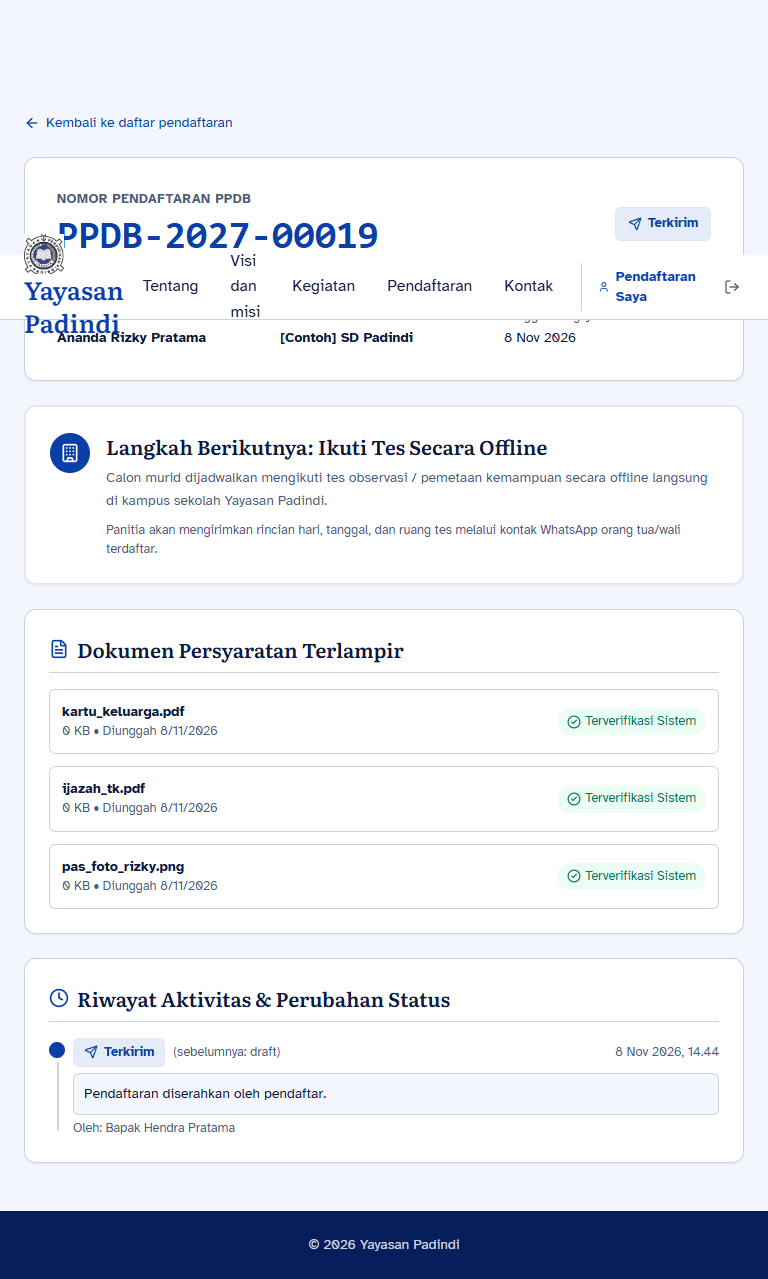
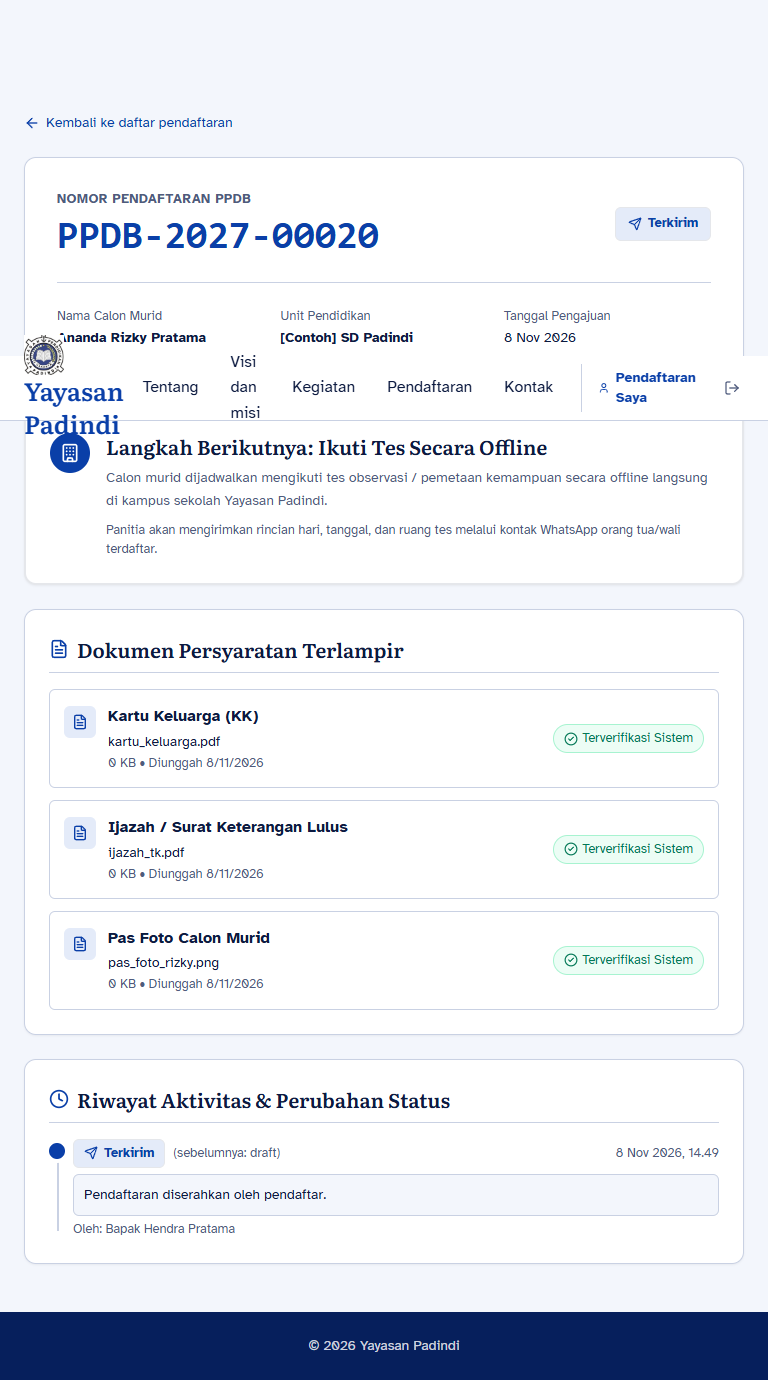
feat(ui): tampilkan jenis dokumen persyaratan pada ringkasan dokumen terlampir di status pendaftaran

diff --git a/frontend/src/features/student-application/pages/ApplicationStatusPage.tsx b/frontend/src/features/student-application/pages/ApplicationStatusPage.tsx
@@ -25,6 +25,33 @@ import {
   ShieldAlert,
 } from 'lucide-react';
 
+const getDocumentTypeLabel = (docType?: string, isTeacher = false): string => {
+  if (!docType) return 'Dokumen Persyaratan';
+  const normalized = docType.toLowerCase().trim();
+  switch (normalized) {
+    case 'family_card':
+      return 'Kartu Keluarga (KK)';
+    case 'diploma':
+      return isTeacher ? 'Ijazah Pendidikan Terakhir' : 'Ijazah / Surat Keterangan Lulus';
+    case 'photo':
+      return isTeacher ? 'Pas Foto Formal Terbaru' : 'Pas Foto Calon Murid';
+    case 'cv':
+    case 'cv_portfolio':
+      return 'Curriculum Vitae (CV) & Portofolio';
+    case 'birth_certificate':
+      return 'Akta Kelahiran';
+    case 'identity_card':
+    case 'ktp':
+      return 'Kartu Tanda Penduduk (KTP)';
+    case 'certificate':
+      return 'Sertifikat Pendidik / Pelatihan';
+    default:
+      return normalized
+        .replace(/_/g, ' ')
+        .replace(/\b\w/g, (char) => char.toUpperCase());
+  }
+};
+
 export const ApplicationStatusPage: React.FC = () => {
   const { id } = useParams<{ id: string }>();
   const location = useLocation();
@@ -242,17 +269,30 @@ export const ApplicationStatusPage: React.FC = () => {
             {(isTeacher ? teacherApp?.documents : studentApp?.documents)?.map((doc) => (
               <div
                 key={doc.id}
-                className="flex items-center justify-between p-3 rounded-control border border-line bg-paper/50 text-sm font-sans"
+                className="flex flex-col sm:flex-row sm:items-center justify-between gap-3 p-3.5 rounded-control border border-line bg-paper/50 text-sm font-sans"
               >
-                <div>
-                  <p className="font-semibold text-ink">{doc.original_name}</p>
-                  <p className="text-xs text-muted">
-                    {(doc.size_bytes / 1024).toFixed(0)} KB • Diunggah {new Date(doc.created_at).toLocaleDateString('id-ID')}
-                  </p>
+                <div className="flex items-start gap-3">
+                  <div className="p-2 rounded-control bg-tint-100 text-primary shrink-0 mt-0.5">
+                    <FileText className="w-4 h-4" />
+                  </div>
+                  <div>
+                    <h3 className="font-sans font-bold text-ink text-sm sm:text-base">
+                      {getDocumentTypeLabel(doc.document_type, isTeacher)}
+                    </h3>
+                    <p className="text-xs sm:text-sm text-ink/80 font-medium truncate max-w-xs sm:max-w-md mt-0.5">
+                      {doc.original_name}
+                    </p>
+                    <p className="text-xs text-muted mt-0.5">
+                      {(doc.size_bytes / 1024).toFixed(0)} KB • Diunggah {new Date(doc.created_at).toLocaleDateString('id-ID')}
+                    </p>
+                  </div>
                 </div>
-                <span className="inline-flex items-center gap-1 text-xs text-emerald-700 bg-emerald-50 px-2.5 py-1 rounded-full font-medium">
-                  <CheckCircle2 className="w-3.5 h-3.5" /> Terverifikasi Sistem
-                </span>
+
+                <div className="sm:self-center shrink-0">
+                  <span className="inline-flex items-center gap-1 text-xs text-emerald-700 bg-emerald-50 px-2.5 py-1 rounded-full font-medium border border-emerald-200">
+                    <CheckCircle2 className="w-3.5 h-3.5" /> Terverifikasi Sistem
+                  </span>
+                </div>
               </div>
             ))}
           </div>
